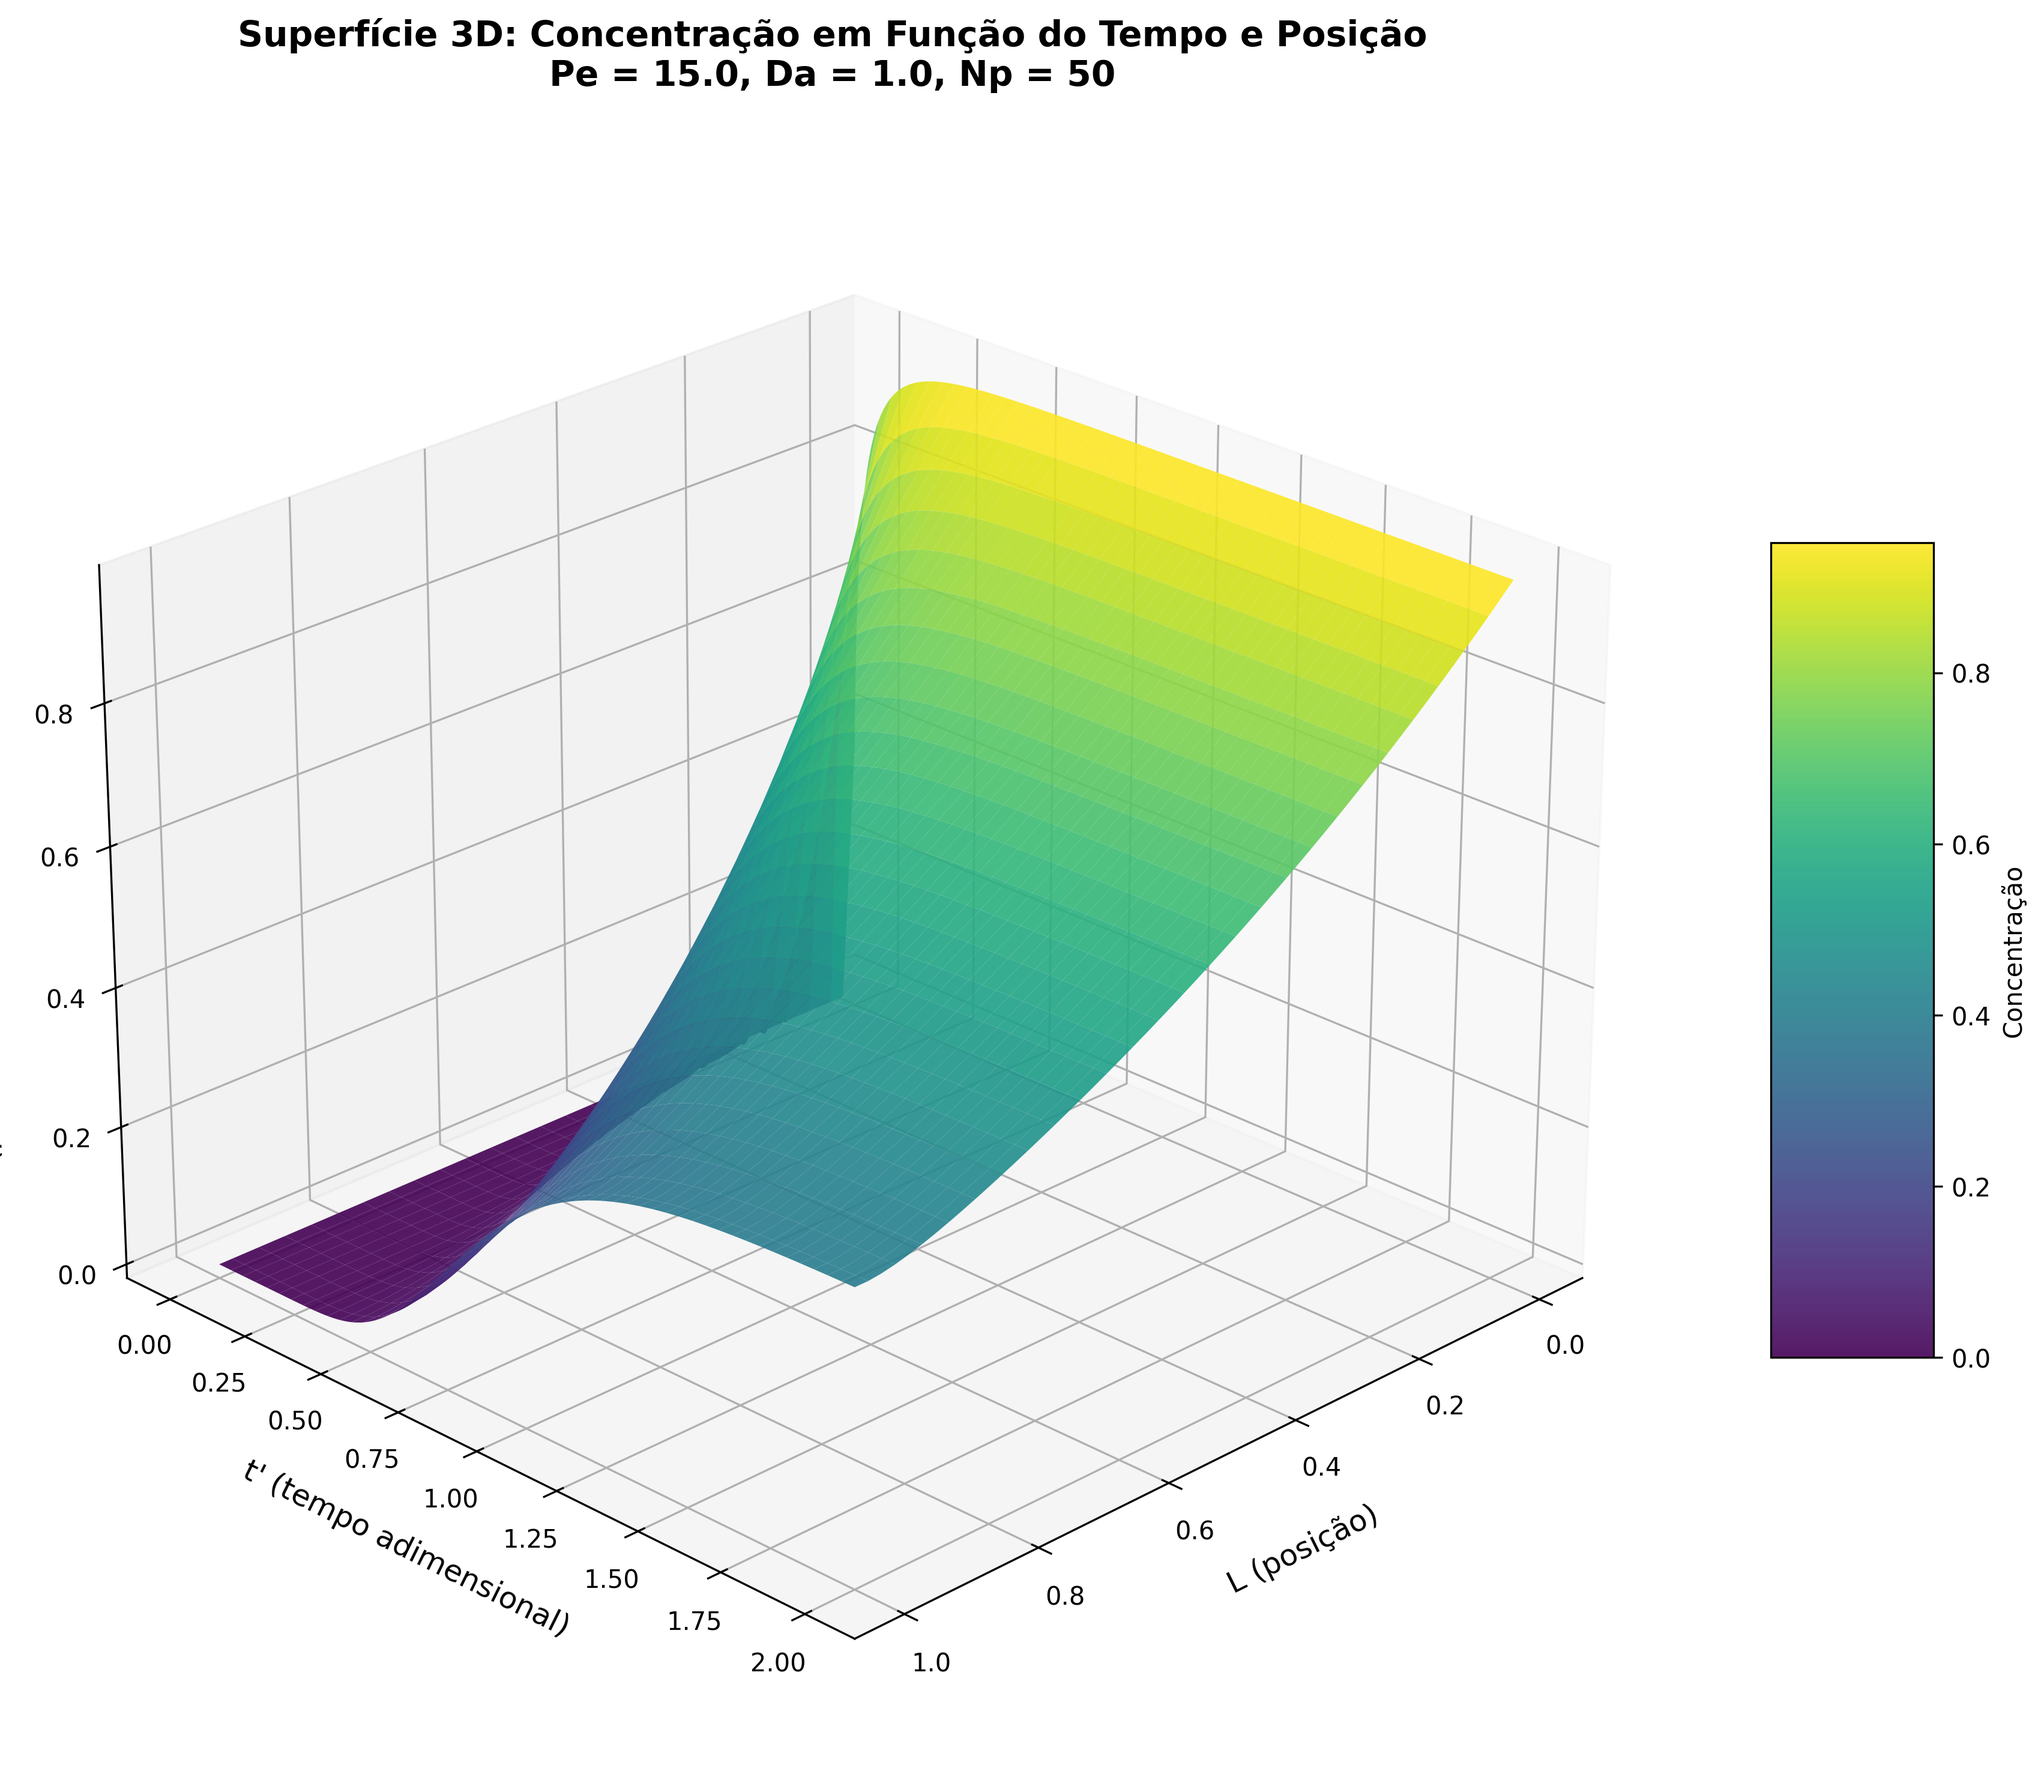
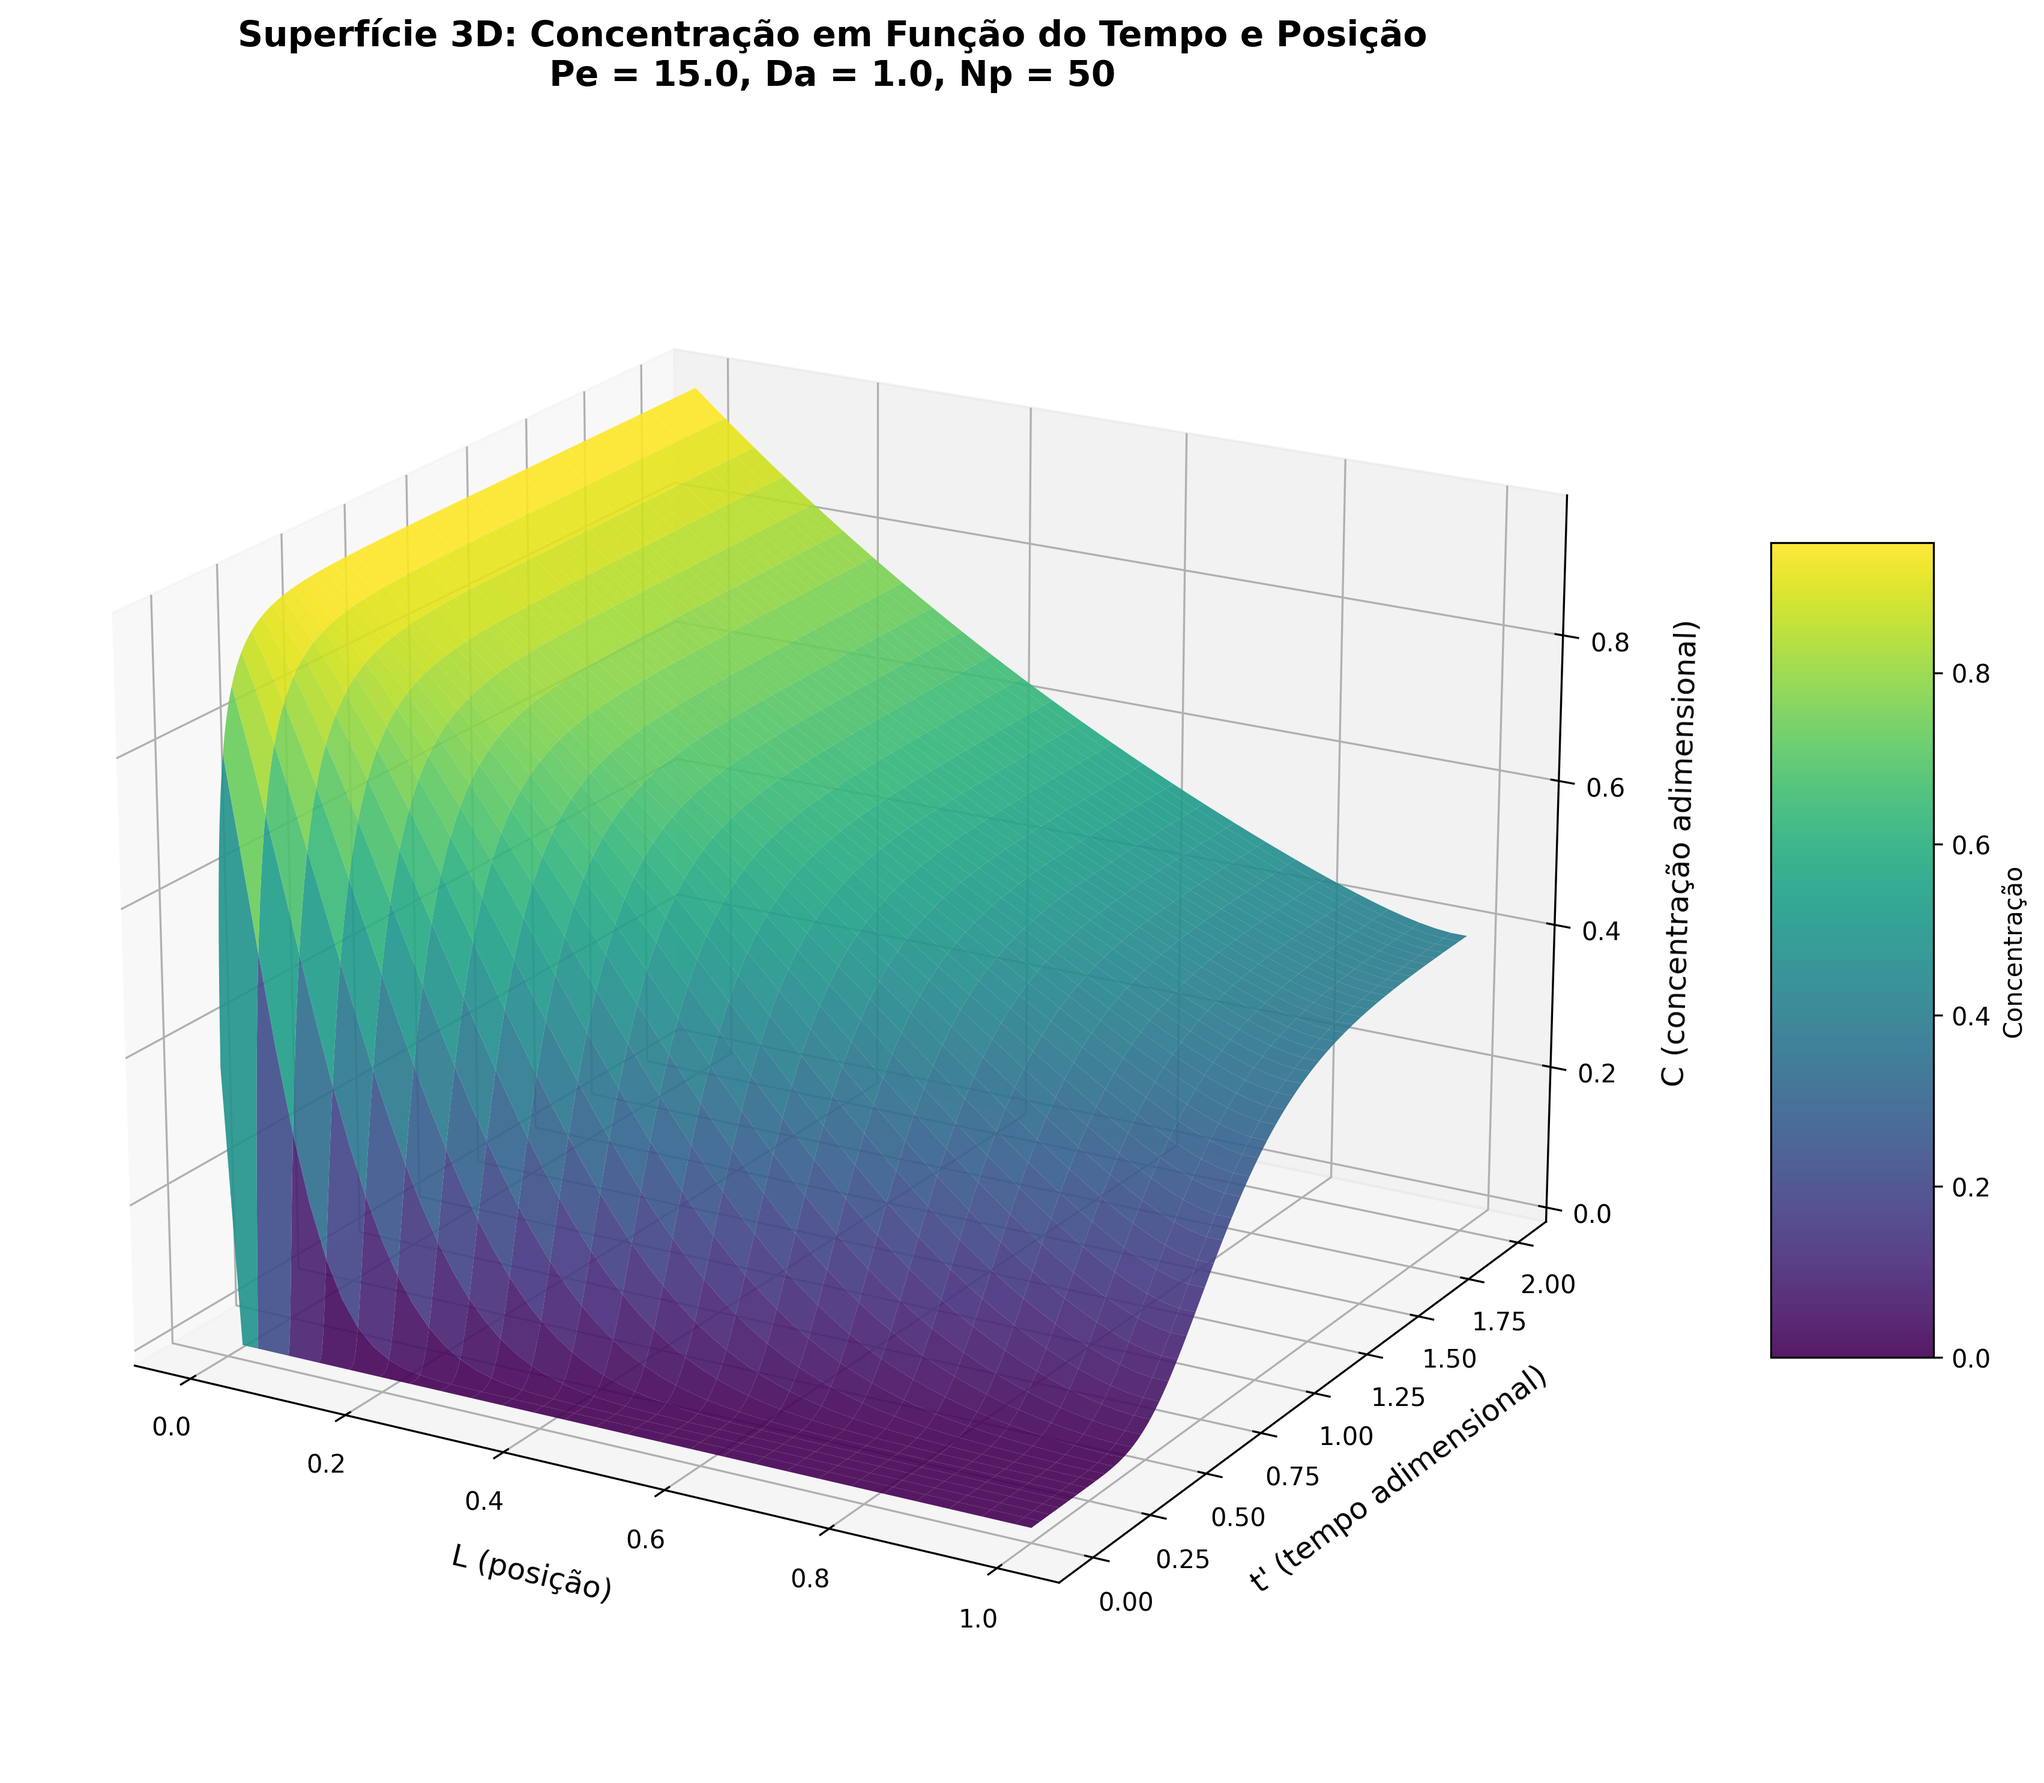
ok

diff --git a/exercicios sala de aula/aula 04/simulacao_pfr.py b/exercicios sala de aula/aula 04/simulacao_pfr.py
@@ -148,7 +148,7 @@ ax3.set_title(f'Superfície 3D: Concentração em Função do Tempo e Posição\
 
 fig3.colorbar(surf, ax=ax3, shrink=0.5, aspect=5, label='Concentração')
 
-ax3.view_init(elev=25, azim=45)
+ax3.view_init(elev=20, azim=-60)
 
 fig3.tight_layout()
 fig3.savefig(FIGURE_PATHS["grafico_3d"], dpi=300, bbox_inches='tight')
